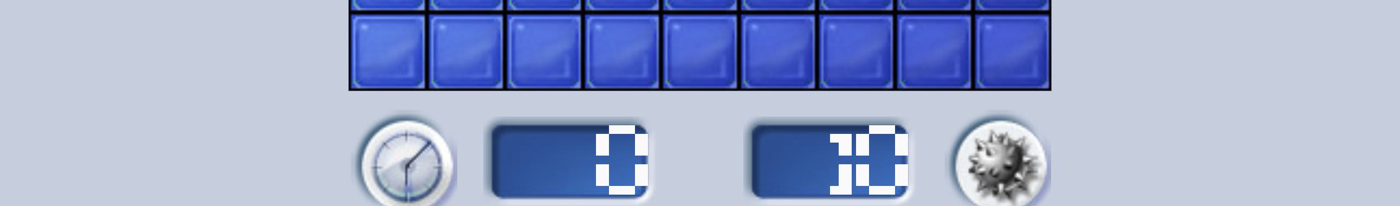
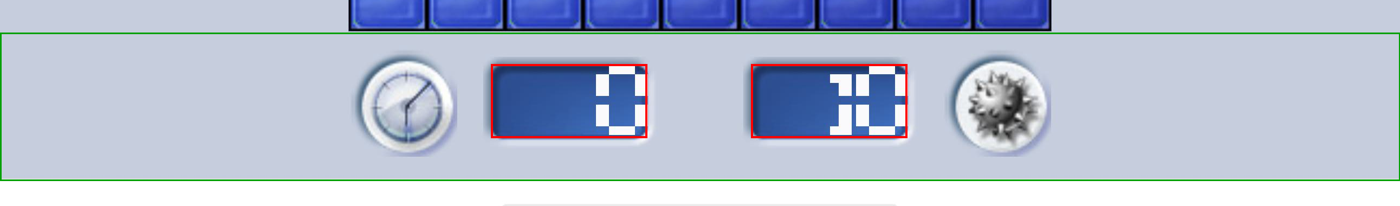
docs: 纠正机型归属（84 条那轮跑在 Mate 90 Pro，靠截图分辨率核过：1280x2832=90Pro、2210x2416=X7），并写明端口号会随先启动的模拟器变，别按端口认机型；补真机 Pura X Max 一行

diff --git a/tools/strip_probe.py b/tools/strip_probe.py
@@ -43,7 +43,7 @@ KNOWN_LAYOUTS = {
     'phone': {
         'label': '真机 Pura X Max (CM_1201pd_*)',
         'canvas_w': 2584, 'canvas_h': 1644,
-        'strip_top': 1371, 'canvas_y': 0,
+        'strip_top': 1371, 'canvas_y': 110,
         'tile': 144, 'unit': 8,
         'board_x': 644, 'board_y': 75,
         'shot': 'CM_1201pd_board_statusbar_no_open.jpeg',
@@ -51,9 +51,9 @@ KNOWN_LAYOUTS = {
     'emu': {
         'label': '模拟器 Mate 90 Pro (CM_1201a_*)',
         'canvas_w': 1280, 'canvas_h': 2598,
-        'strip_top': 1861, 'canvas_y': 0,
+        'strip_top': 1864, 'canvas_y': -3,
         'tile': 108, 'unit': 6,
-        'board_x': 156, 'board_y': 889,
+        'board_x': 156, 'board_y': 892,
         'shot': 'CM_1201a_board_statusbar_no_open.jpeg',
     },
 }
@@ -160,10 +160,77 @@ def app_panel_geometry(lay):
             'mine_x': mine_x, 'icon_x': icon_x, 'inner': inner}
 
 
+def detect_canvas_y(a, lay):
+    """量画布顶在屏幕上的纵向偏移（棋盘第一行砖色上沿 - 棋盘原点 y）。
+
+    与 click_matrix.probe_canvas_y() 同一口径，但这里直接用饱和色行段
+    （砖块/绿砖都是饱和色，状态条底色不是）。
+    """
+    sat = chroma_mask(a)
+    cnt = sat.sum(axis=1)
+    need = max(20, int(lay['canvas_w'] * 0.5))
+    y = 0
+    while y < len(cnt):
+        if cnt[y] >= need:
+            y0 = y
+            while y < len(cnt) and cnt[y] >= need:
+                y += 1
+            return y0 - lay['board_y']
+        y += 1
+    return None
+
+
+def proposed_boxes(a, y0, canvas_bottom, su):
+    """拟议的修法（主题无关）：用「面板本体=饱和色」找面板，再按 su 归一化内框尺寸。
+
+    这是给 click_matrix._strip_panel_rect 用的替换算法，这里只用来自检。
+    """
+    band = chroma_mask(a)[y0:canvas_bottom, :]
+    out = []
+    min_panel_w = INNER_W * su - 6
+    for x0, x1 in runs(band):
+        if x1 - x0 < min_panel_w:
+            continue
+        sub = band[:, x0:x1 + 1]
+        yy = np.where(sub.any(axis=1))[0]
+        if len(yy) == 0:
+            continue
+        top = int(yy.min())
+        j = top - 1
+        while j >= 0 and band[j, x0:x1 + 1].sum() > (x1 - x0) * 0.6:
+            top = j
+            j -= 1
+        w, h = INNER_W * su, INNER_H * su
+        cx = (x0 + x1) / 2.0
+        cy = top + (int(yy.max()) - top) / 2.0 + y0
+        out.append((int(round(cx - w / 2)), int(round(cy - h / 2)), w, h))
+    return out
+
+
+def self_check(a, boxes):
+    """用 tools/sevenseg_read.py 反解面板里的数字（只读导入，不改那个文件）。"""
+    here = os.path.dirname(os.path.abspath(__file__))
+    if here not in sys.path:
+        sys.path.insert(0, here)
+    try:
+        import sevenseg_read as ss
+    except Exception as exc:                # pragma: no cover
+        print('    (无法导入 sevenseg_read: %r)' % (exc,))
+        return
+    for i, box in enumerate(boxes):
+        digits = ss.read_panel(a, box)
+        if digits is None:
+            print('    面板 %d box=%s 读不出来' % (i, box))
+            continue
+        txt = ''.join(str(t) for t in ss.decode(digits) if t is not None)
+        print('    面板 %d box=%s 掩码=%s 读出=%r' % (i, box, digits, txt))
+
+
 def report(path, lay, thumb=None):
     a = load(path)
     h, w = a.shape[:2]
     cy = lay['canvas_y']
+    auto = detect_canvas_y(a, lay)
     y0 = cy + lay['strip_top']
     print('=' * 78)
     print('%s' % lay['label'])
@@ -172,6 +239,15 @@ def report(path, lay, thumb=None):
              lay['strip_top'], y0))
     print('  格边=%d unit=%d 棋盘原点=(%d,%d)  外观=%s'
           % (lay['tile'], lay['unit'], lay['board_x'], lay['board_y'], lay.get('appearance', '?')))
+    if auto is not None:
+        print('  实测画布顶偏移 canvas_y = %d（棋盘砖色上沿 - 棋盘原点 y）'
+              % auto)
+        if auto != cy:
+            print('  ==> 与内置值 %d 不一致，下面另用实测值重算一遍' % cy)
+            lay = dict(lay)
+            lay['canvas_y'] = auto
+            y0 = auto + lay['strip_top']
+            print('      改用 canvas_y=%d -> 状态条带 y0=%d' % (auto, y0))
     print()
 
     # ---- 1. 绿口径（复现 click_matrix 的报错）-------------------------
@@ -190,10 +266,14 @@ def report(path, lay, thumb=None):
     print()
 
     # ---- 2. 饱和色口径 --------------------------------------------------
+    # 注意：带只取到**画布底**为止。真机截图 y=1644..1828 是系统导航栏（白底），
+    # click_matrix 现在的 band 是 img[y0:]（一直到屏幕底），改用饱和色口径时
+    # 必须先把系统栏裁掉，否则系统栏里的彩色像素会被当成面板。
+    canvas_bottom = min(h, cy + lay['canvas_h'])
     c = chroma_mask(a)
-    cb = c[y0:, :]
+    cb = c[y0:canvas_bottom, :]
     ccols = runs(cb)
-    print('[2] 饱和色口径（chroma = max-min >= %d）' % CHROMA_MIN)
+    print('[2] 饱和色口径（chroma = max-min >= %d，带取到画布底 %d）' % (CHROMA_MIN, canvas_bottom))
     print('    状态条带内饱和像素 = %d   饱和列段 = %s'
           % (int(cb.sum()), [(a_, b_, b_ - a_ + 1) for a_, b_ in ccols]))
     found = []
@@ -216,9 +296,12 @@ def report(path, lay, thumb=None):
     print('    content_top=%d  clock_x=%d  time_x=%d time_y=%d  mine_x=%d  icon_x=%d'
           % (geo['content_top'], geo['clock_x'], geo['time_x'], geo['time_y'],
              geo['mine_x'], geo['icon_x']))
-    print('    面板内区(绿/蓝底那块)预期: %s'
+    print('    面板内区(绿/蓝底那块)预期(画布坐标): %s'
           % [tuple(int(v) for v in t) for t in geo['inner']])
+    print('    面板内区预期(屏幕坐标, 加 canvas_y=%d): %s'
+          % (cy, [(int(t[0]), int(t[1]) + cy, int(t[2]), int(t[3])) for t in geo['inner']]))
     for i, (px, py, pw, ph) in enumerate(geo['inner']):
+        py += cy
         hit = None
         for (fx, fy, fw, fh) in found:
             if abs(fx - px) <= 12 and abs(fy - py) <= 24:
@@ -249,14 +332,23 @@ def report(path, lay, thumb=None):
     print()
 
     # ---- 5. 白色数码管在哪 ---------------------------------------------
-    wmask = a.min(axis=2) > 185
-    wb = wmask[y0:, :]
+    # 数码管是 LED 白 (250,250,252)；状态条底色是 (198,205,221)，
+    # 所以阈值必须卡在两者之间（min>185 会把底色整片算进来）。
+    wmask = a.min(axis=2) >= 235
+    wb = wmask[y0:canvas_bottom, :]
     wr = row_runs(wb)
     wc = runs(wb)
-    print('[5] 状态条带里的白色像素（自绘七段数码管，主题无关）')
-    print('    白色行段 = %s' % [(a_, b_) for a_, b_ in wr][:8])
+    print('[5] 状态条带里的白色像素（自绘七段数码管，主题无关；带取到画布底）')
+    print('    白色行段 = %s' % [(a_ + y0, b_ + y0) for a_, b_ in wr][:8])
     print('    白色列段 = %s' % [(a_, b_, b_ - a_ + 1) for a_, b_ in wc][:8])
     print('    白色像素数 = %d' % int(wb.sum()))
+    print()
+
+    # ---- 6. 拟议修法自检 ------------------------------------------------
+    print('[6] 拟议修法自检（饱和色找面板 + 按 su 归一化内框）')
+    boxes = proposed_boxes(a, y0, canvas_bottom, geo['su'])
+    print('    找到的面板内框 = %s' % (boxes,))
+    self_check(a, boxes)
     print()
 
     if thumb:
@@ -264,12 +356,22 @@ def report(path, lay, thumb=None):
         if not out.lower().endswith('.png'):
             out += '.png'
         os.makedirs(os.path.dirname(os.path.abspath(out)) or '.', exist_ok=True)
-        crop = a[max(0, y0 - 60):min(h, y0 + 320), :]
+        top = max(0, y0 - 60)
+        bottom = min(h, y0 + 320)
+        crop = a[top:bottom, :]
         img = Image.fromarray(crop.astype(np.uint8))
+        try:
+            from PIL import ImageDraw
+            dr = ImageDraw.Draw(img)
+            for (bx, by, bw, bh) in boxes:
+                dr.rectangle([bx, by - top, bx + bw, by + bh - top], outline=(255, 0, 0), width=4)
+            dr.rectangle([0, y0 - top, img.width, canvas_bottom - top], outline=(0, 160, 0), width=3)
+        except Exception as exc:            # pragma: no cover
+            print('    (标注失败: %r)' % (exc,))
         img.thumbnail((1400, 1400))
         img.save(out)
-        print('缩略图已存: %s  (状态条带 %d..%d, 缩略 %dx%d)'
-              % (out, y0, y0 + 320, img.width, img.height))
+        print('缩略图已存: %s  (状态条带 %d..%d, 缩略 %dx%d；红框=面板内区 绿框=状态条带)'
+              % (out, y0, bottom, img.width, img.height))
     return gcols, ccols, found
 
 

diff --git a/docs/REAL-DEVICE-2026-11-01.md b/docs/REAL-DEVICE-2026-11-01.md
@@ -58,6 +58,7 @@
 ### 2.1 结果
 
 **11 通过 / 4 失败。**
+原始日志：`docs\verify\CM_board_1201pd.log`（设备 `6HR0226409003317`，15 条，用时 263 秒）。
 
 ### 2.2 明细
 
@@ -95,6 +96,7 @@
 ### 3.1 `board.cell.00` —— 第 1 步 reset 报「hilog 里没有布局日志」
 
 - **现象**：第 1 步 `reset` 抛「hilog 里没有布局日志」。
+  跑测器原文：`第1步 reset 执行异常: hilog 里没有布局日志`。
 - **根因**：**真机重启应用比模拟器慢**，跑测器等布局日志的**重试次数不够**。
 - **归因**：**跑测器问题**（不是应用问题）。
 - **已做的处置**：主会话已把重试从 **8 次 × 1.5 秒**（约 12 秒）提到 **24 次 × 2 秒**（约 48 秒）。
@@ -106,6 +108,7 @@
 
 - **现象**：`board.counter.timer` / `board.counter.negative` / `board.counter.flag` 三条都报
   「状态条上找不到绿色面板」。
+  跑测器原文：`第2步 expect 执行异常: 状态条上找不到绿色面板`。
 - **线索**：真机 `unit = 8`，面板绿色内区 = **36 × 17 参照像素 × 8 = 288 × 136 设备像素**；
   跑测器找面板的**宽度门槛算法可能算错**。
 - **归因**：**疑似跑测器问题，根因排查中**（由另一个智能体负责）。
@@ -119,17 +122,65 @@
 
 ## 四、模拟器上的对照结果（同一天）
 
-| 范围 | 结果 | 说明 |
-|---|---|---|
-| Mate 90 Pro 模拟器 · 四域整套 | **84 条：83 通过 1 失败** | 那 1 条是「赢一局」的脚本**连输 3 遍**，属**设备状态问题**（跑测器的赢局脚本本来就只能赢一部分，`2fe3a2b` 把造局面重试提到 6 遍就是为这个） |
-| 其中「对话框」域 **27 条** | **全过**（`a3137bd`） | 失败框、胜利框、统计窗、颜色框、帮助框、关于框 |
-| 「自定义」域 | 全过 | 含真开出 24×30、越界输入被拒绝、预填来自当前盘面 |
-| 引擎单元测试 | **59 / 59 全过** | `engine\test\engine.test.ts`，用 `powershell -NoProfile -ExecutionPolicy Bypass -File tools\run_engine_tests.ps1` 跑 |
-| Mate X7 模拟器 · 对话框域 | **正在跑** | 结果**待补** |
+> 设备对应关系：**别按端口号认机型** —— 端口号是「谁先启动谁拿 5555」决定的，会变。
+> 2026-11-01 当天的情况：11:51 ~ 22:07 这几轮跑的时候，**5555 上是 Mate 90 Pro**；
+> 22:08 把它关掉、启动 Mate X7 之后，**5555 才变成 Mate X7**。
+> 认机型的可靠办法：**看截图分辨率**（每轮都存在 `docs\verify\CM_<tag>_*.jpeg`）：
+> **1280×2832 = Mate 90 Pro（直屏）**、**2210×2416 = Mate X7（折叠屏）**。
+> 本文件下面那张表里的机型**就是按截图分辨率核过的**，不是按端口号推的。
 
-> **注意**：84 条是那一轮跑的时候的条数。
-> 现在用例表里是 **86 条**（菜单 15 / 棋盘 15 / 对话框 27 / 自定义 29），
-> 下次重跑按 86 条计。
+### 4.1 各轮跑测的原始日志与结果
+
+| 时间 | 日志文件 | 设备（按截图分辨率核） | 条数 | 结果 |
+|---|---|---|---|---|
+| 11:51 | `CM_menu_board_1101c.log` | Mate 90 Pro（1280×2832） | 27（board+menu） | **27 通过 0 失败**（594 秒） |
+| 12:02 | `CM_custom_1101c.log` | Mate 90 Pro（1280×2832） | 28（custom） | **28 通过 0 失败**（683 秒） |
+| 19:52 | `CM_dialogs_1101m.log` | Mate 90 Pro（1280×2832） | 27（dialogs） | 25 通过 2 失败（1509 秒） |
+| 20:55 | `CM_win_1101v.log` | Mate 90 Pro（1280×2832） | 3（dialogs 的胜利框） | **3 通过 0 失败**（842 秒） |
+| 22:07 | `CM_full_1201a.log` | Mate 90 Pro（1280×2832） | 84（四域整套） | **83 通过 1 失败**（2727 秒） |
+| 23:28 | `CM_board_1201pd.log` | **真机 Pura X Max**（2584×1824 内屏） | 15（board） | **11 通过 4 失败**（263 秒） |
+
+### 4.2 「对话框域 27 条全过」是怎么来的
+
+`CM_dialogs_1101m.log` 那一轮是 **25 通过 2 失败**，剩下 2 条都是**胜利框**相关。
+把那 3 条胜利框用例单独重跑（`CM_win_1101v.log`，20:55）→ **3 条全过**。
+所以「对话框域 27 条全过」指的是**这两轮合起来**，不是某一轮一次跑完的。
+
+### 4.3 84 条整套里那 1 条失败是什么
+
+- 失败的用例：**`dialogs.win.close`**
+- 跑测器原文：`第2步 win_game 执行异常: 造局面失败（click_mkstate win 退出码 1）`
+- 造局面的脚本原文（`CM_full_1201a.log` 尾部）：
+
+```
+[mkstate] win 框已出现
+[mkstate] 应用日志说弹的是**lose框**，要的是 win框 —— 重来
+[mkstate] 第 3 遍没等到 win 框
+```
+
+- **归因**：赢局脚本连着 3 遍造不出一个赢的局面（弹出来的是输的框），
+  属**设备状态问题**，不是应用的问题。
+  `2fe3a2b` 把造局面重试提到 6 遍就是为了这个。
+
+### 4.4 引擎单元测试
+
+**59 / 59 全过。**
+命令：`powershell -NoProfile -ExecutionPolicy Bypass -File tools\run_engine_tests.ps1`
+（用例在 `engine\test\engine.test.ts`）
+
+### 4.5 此刻（23:37）还在跑的
+
+| 日志文件 | 设备 | 条数 | 状态 |
+|---|---|---|---|
+| `CM_menu_custom_1201pe.log` | **真机** `6HR0226409003317` | 44（custom+menu） | **正在跑** |
+| `CM_full_1201x7b.log` | Mate X7 | 86（四域整套） | **正在跑** |
+| `CM_dialogs_1201x7d.log` | Mate X7 | 27（dialogs） | **正在跑** |
+
+> **真机上已经在跑「自定义 + 菜单」44 条了** —— 这一轮跑完，真机的覆盖会比第四节写的更全。
+> 本文写的是**截至 23:37 已经有结果的部分**，在跑的没有写结果。
+
+> **条数说明**：84 是 22:07 那轮跑的条数。
+> 现在用例表里是 **86 条**（菜单 15 / 棋盘 15 / 对话框 27 / 自定义 29），下次重跑按 86 条计。
 
 ---
 
@@ -149,7 +200,7 @@
 | 项 | 状态 | 备注 |
 |---|---|---|
 | **折叠开合过程中局面保不保得住** | **待测** | 折叠屏是这个项目的核心，今天没在真机上折过 |
-| **内屏 ↔ 外屏切换** | **待测** | 今天只跑了内屏（2584 宽那套） |
+| **内屏与外屏来回切换** | **待测** | 今天只跑了内屏（2584 宽那套） |
 | **双指捏合缩放** | **待测** | 界面层和代码都在（应用仓 `1a6dbd2` 已加 `[Touch] 捏合 档位n=…` 日志），但真机上没人捏过 |
 | **声音** | **待测** | **从来没听过**。代码写了 11 个音效接线（`SPEC.md` §8 第 4 条），但没有任何一次实测记录 |
 | **对话框在真机上的精确像素** | **待测** | 对话框域 27 条只在**模拟器**上跑过；真机上的缩放与像素**还没量** |

diff --git a/docs/REAL-DEVICE-CHECKLIST.md b/docs/REAL-DEVICE-CHECKLIST.md
@@ -37,13 +37,15 @@
 
 | 范围 | 结果 |
 |---|---|
-| Mate 90 Pro 模拟器 · 四域整套 | 84 条：**83 通过 1 失败**（那 1 条是「赢一局」的脚本连输 3 遍，属**机器状态**问题） |
-| 其中「对话框」域 27 条 | **全过**（失败框、胜利框、统计窗、颜色框、帮助框、关于框） |
-| 「自定义」域 | 全过（含真开出 24×30、越界输入被拒绝、预填来自当前盘面） |
+| 模拟器 · 四域整套 84 条 | **83 通过 1 失败**（那 1 条是「赢一局」的脚本连输 3 遍、造不出一个赢的局面，属**机器状态**问题，不是程序错） |
+| 「菜单」+「棋盘」27 条 | **全过** |
+| 「自定义」域 28 条 | **全过**（含真开出 24×30、越界输入被拒绝、预填来自当前盘面） |
+| 「对话框」域 27 条 | 跑到 **25 通过 2 失败**，剩下那 2 条（胜利框）单独重跑 **3 条全过** |
 | 引擎单元测试 | **59 / 59 全过** |
-| Mate X7 模拟器 · 对话框域 | **正在跑**（结果还没出） |
 
-> **所以**：如果你在真机上看到**对话框**不对劲，请直接发回来 —— 那些只在模拟器上验过。
+> **所以**：如果你在真机上看到**对话框**不对劲，请直接发回来 ——
+> 那些只在**模拟器**上验过，**真机上还没跑过**。
+> 真机上的四域整套也**还没跑完**（主会话正在跑），结果出来会再更新这份清单。
 
 ### 1.3 真机上的版式（这一条已经确认，不用你量）
 
@@ -130,7 +132,7 @@
 - **算什么失败**：任何一条不满足（旗没了、计时归零、雷数重置、翻开的格子合上了）。
 - **失败了发什么回来**：**折起来那一屏**和**展开后那一屏**两张截图（都要），加第 3 节的日志。
 
-### 2.4 内屏 ↔ 外屏切换
+### 2.4 内屏与外屏来回切换
 
 **做什么**：
 
